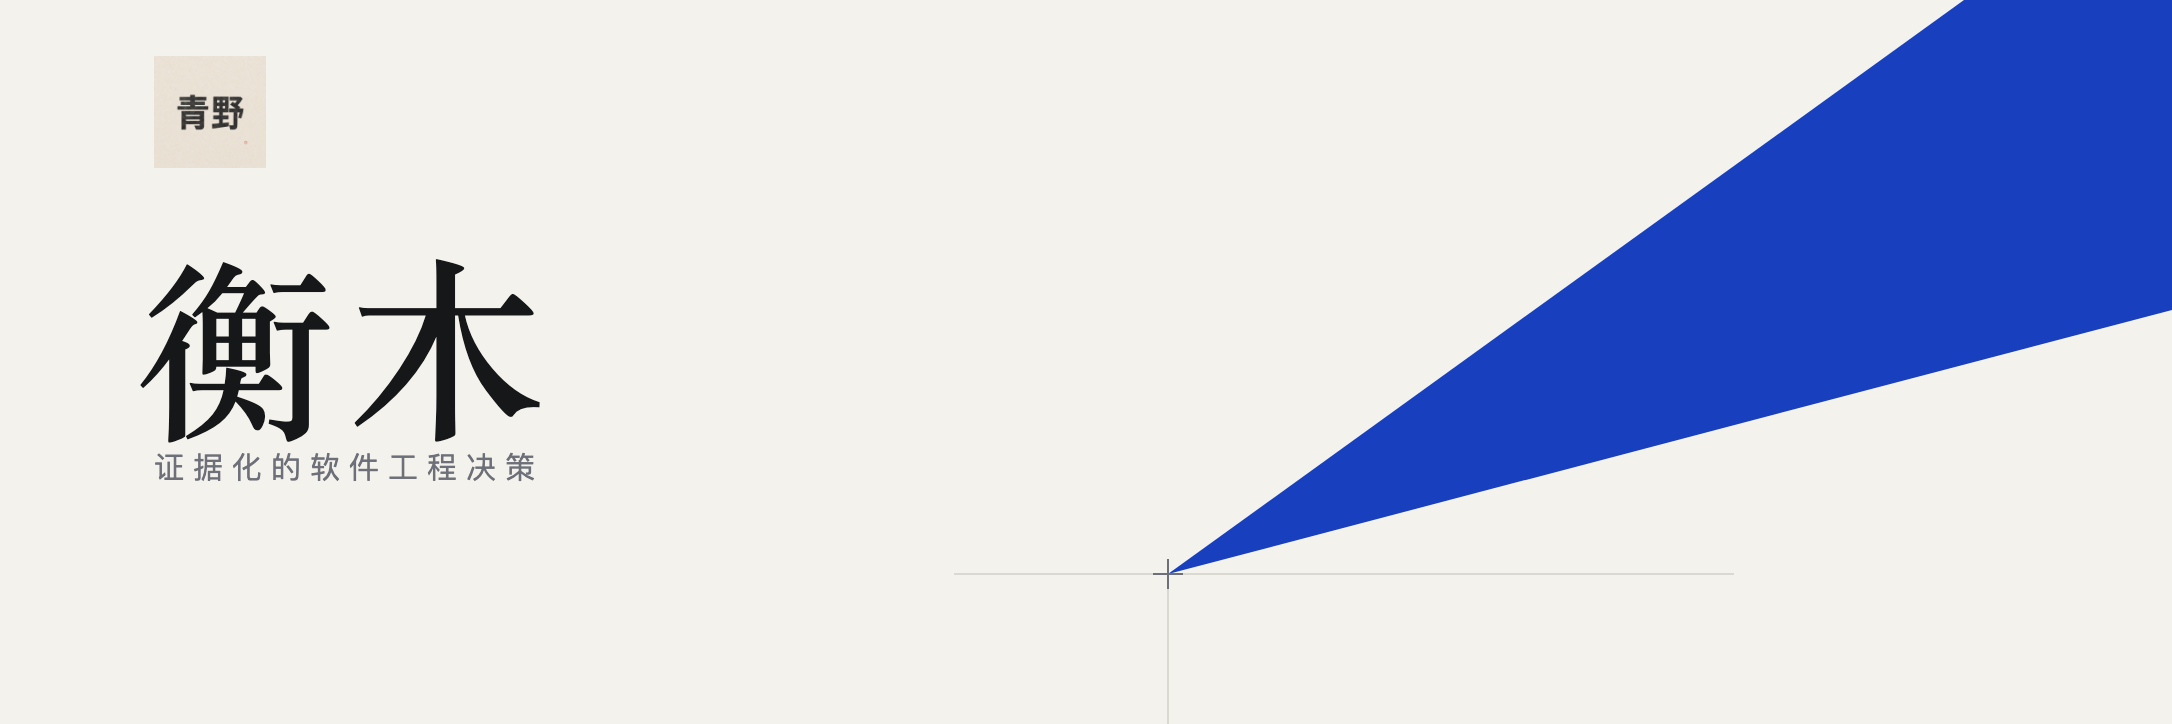
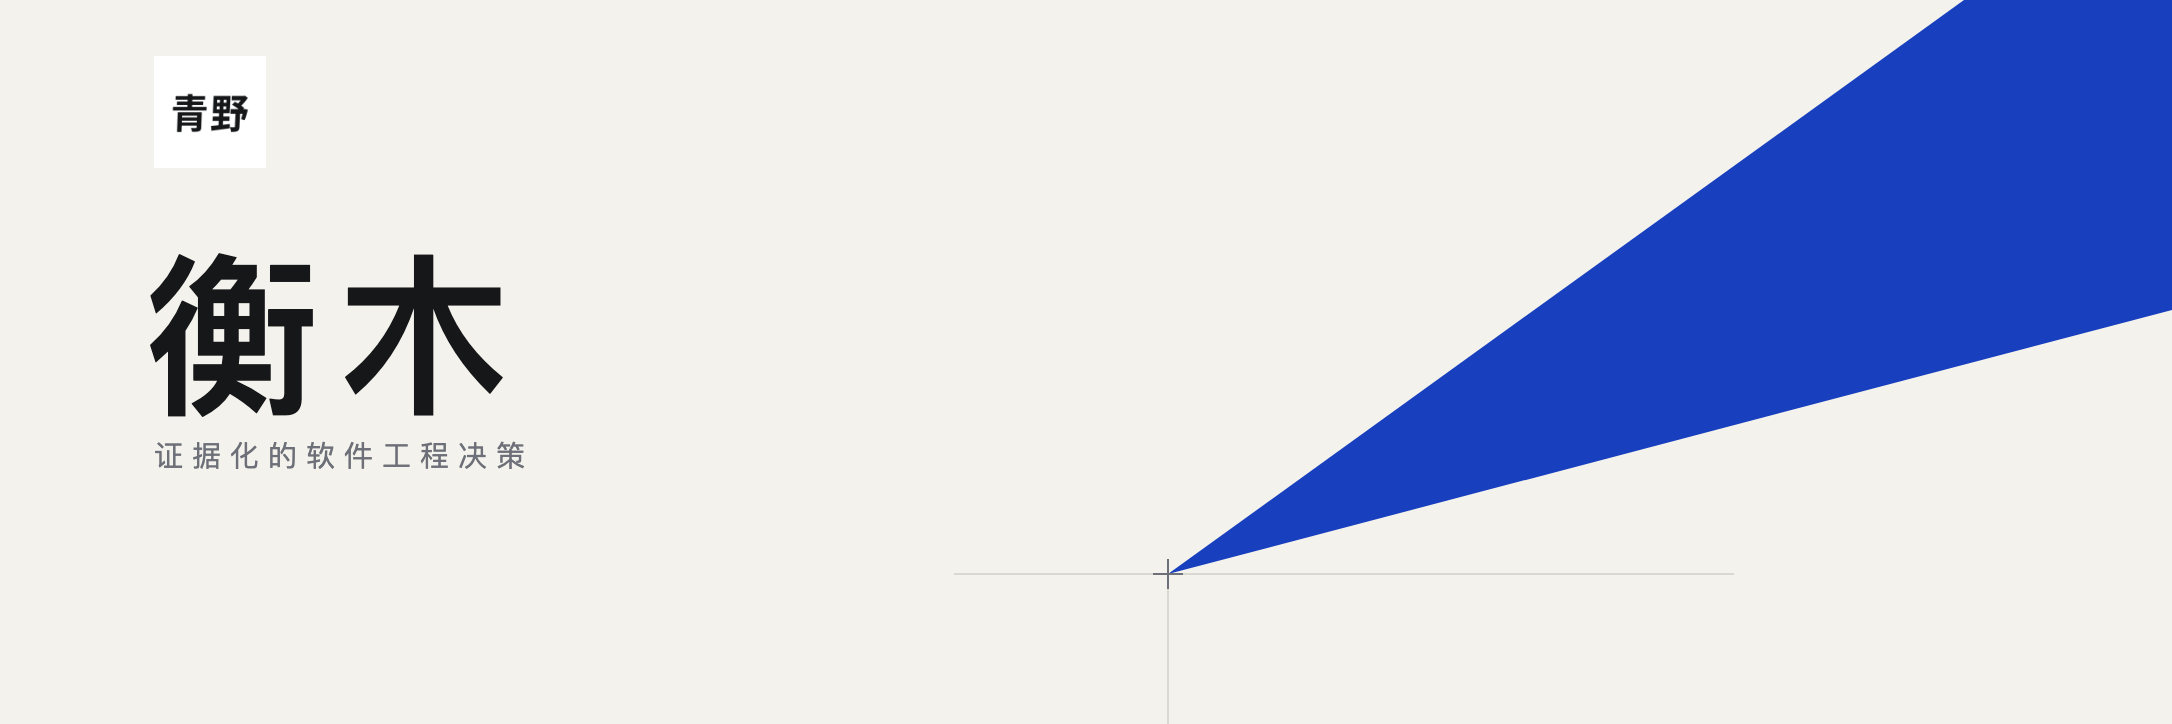
fix: unify Hengmu and Qingye visual typography

Changed region(s): [[0.0617, 0.3343, 0.2468, 0.6685], [0.0617, 0.0608, 0.1234, 0.2431]]

diff --git a/docs/assets/brand/README.md b/docs/assets/brand/README.md
@@ -11,7 +11,7 @@ editions.
 
 | Asset | English | 简体中文 | Formats |
 | --- | --- | --- | --- |
-| 青野 primary logo | `qingye-logo-primary.png` | `qingye-logo-primary.png` | PNG |
+| 青野 pure-white primary logo | `qingye-logo-primary.*` | `qingye-logo-primary.*` | SVG, PNG |
 | Project icon | `en/hengmu-icon.*` | `zh-CN/hengmu-icon.*` | SVG, PNG |
 | Project banner | `en/hengmu-banner.*` | `zh-CN/hengmu-banner.*` | SVG, PNG |
 | README editorial figures | `../../../assets/hengmu-readme-illustrations/en/` | `../../../assets/hengmu-readme-illustrations/zh-CN/` | PNG |
@@ -25,8 +25,8 @@ and diagrams localize all visible text.
 
 - Source of truth: `liyanqing90/qingye-brand`
 - Asset baseline: `v1.1 Refined`
-- Logo source: `exports/social/avatar/qingye-avatar-primary-1024.png`
[1 lines of base64/hex data omitted]
+- Wordmark source: `source/logo/wordmark-primary.svg`
+- Wordmark source blob: `7b1b3c3c3b3e57fbfac7685dfbae0939a1d6cce7`
 - Brand idea: 理性结构中的持续进化
 - Brand proposition: 在不确定中，持续构建。
 - 青野 ink: `#161719`
@@ -36,10 +36,17 @@ and diagrams localize all visible text.
 - Hairline: `#D9D9D2`
 
 `qingye-wordmark.svg` is the unmodified official wordmark source.
-`qingye-logo-primary.png` is the brand repository's Final 1024 px
-warm-paper, black-wordmark social logo. Both localized banners use that
-published asset; they do not typeset a Latin-script substitute. Do not redraw,
+`qingye-logo-primary.svg` places those exact vector paths on the brand's pure
+white token and uses the official avatar transform (`translate(102 300)
+scale(0.72)`). `qingye-logo-primary.png` is its deterministic 1024 px export.
+Both localized banners consume this white-ground asset; they do not typeset a
+Latin-script substitute or reuse the textured social export. Do not redraw,
 rotate, restack, or alter the official wordmark.
+
+Hengmu's display type follows one neutral sans-serif system across locales:
+PingFang SC (with system sans fallbacks) for Chinese and Helvetica Neue (with
+system sans fallbacks) for English. The official 青野 glyphs remain vector
+artwork, never a substitute font.
 
 ## Hengmu mark
 
